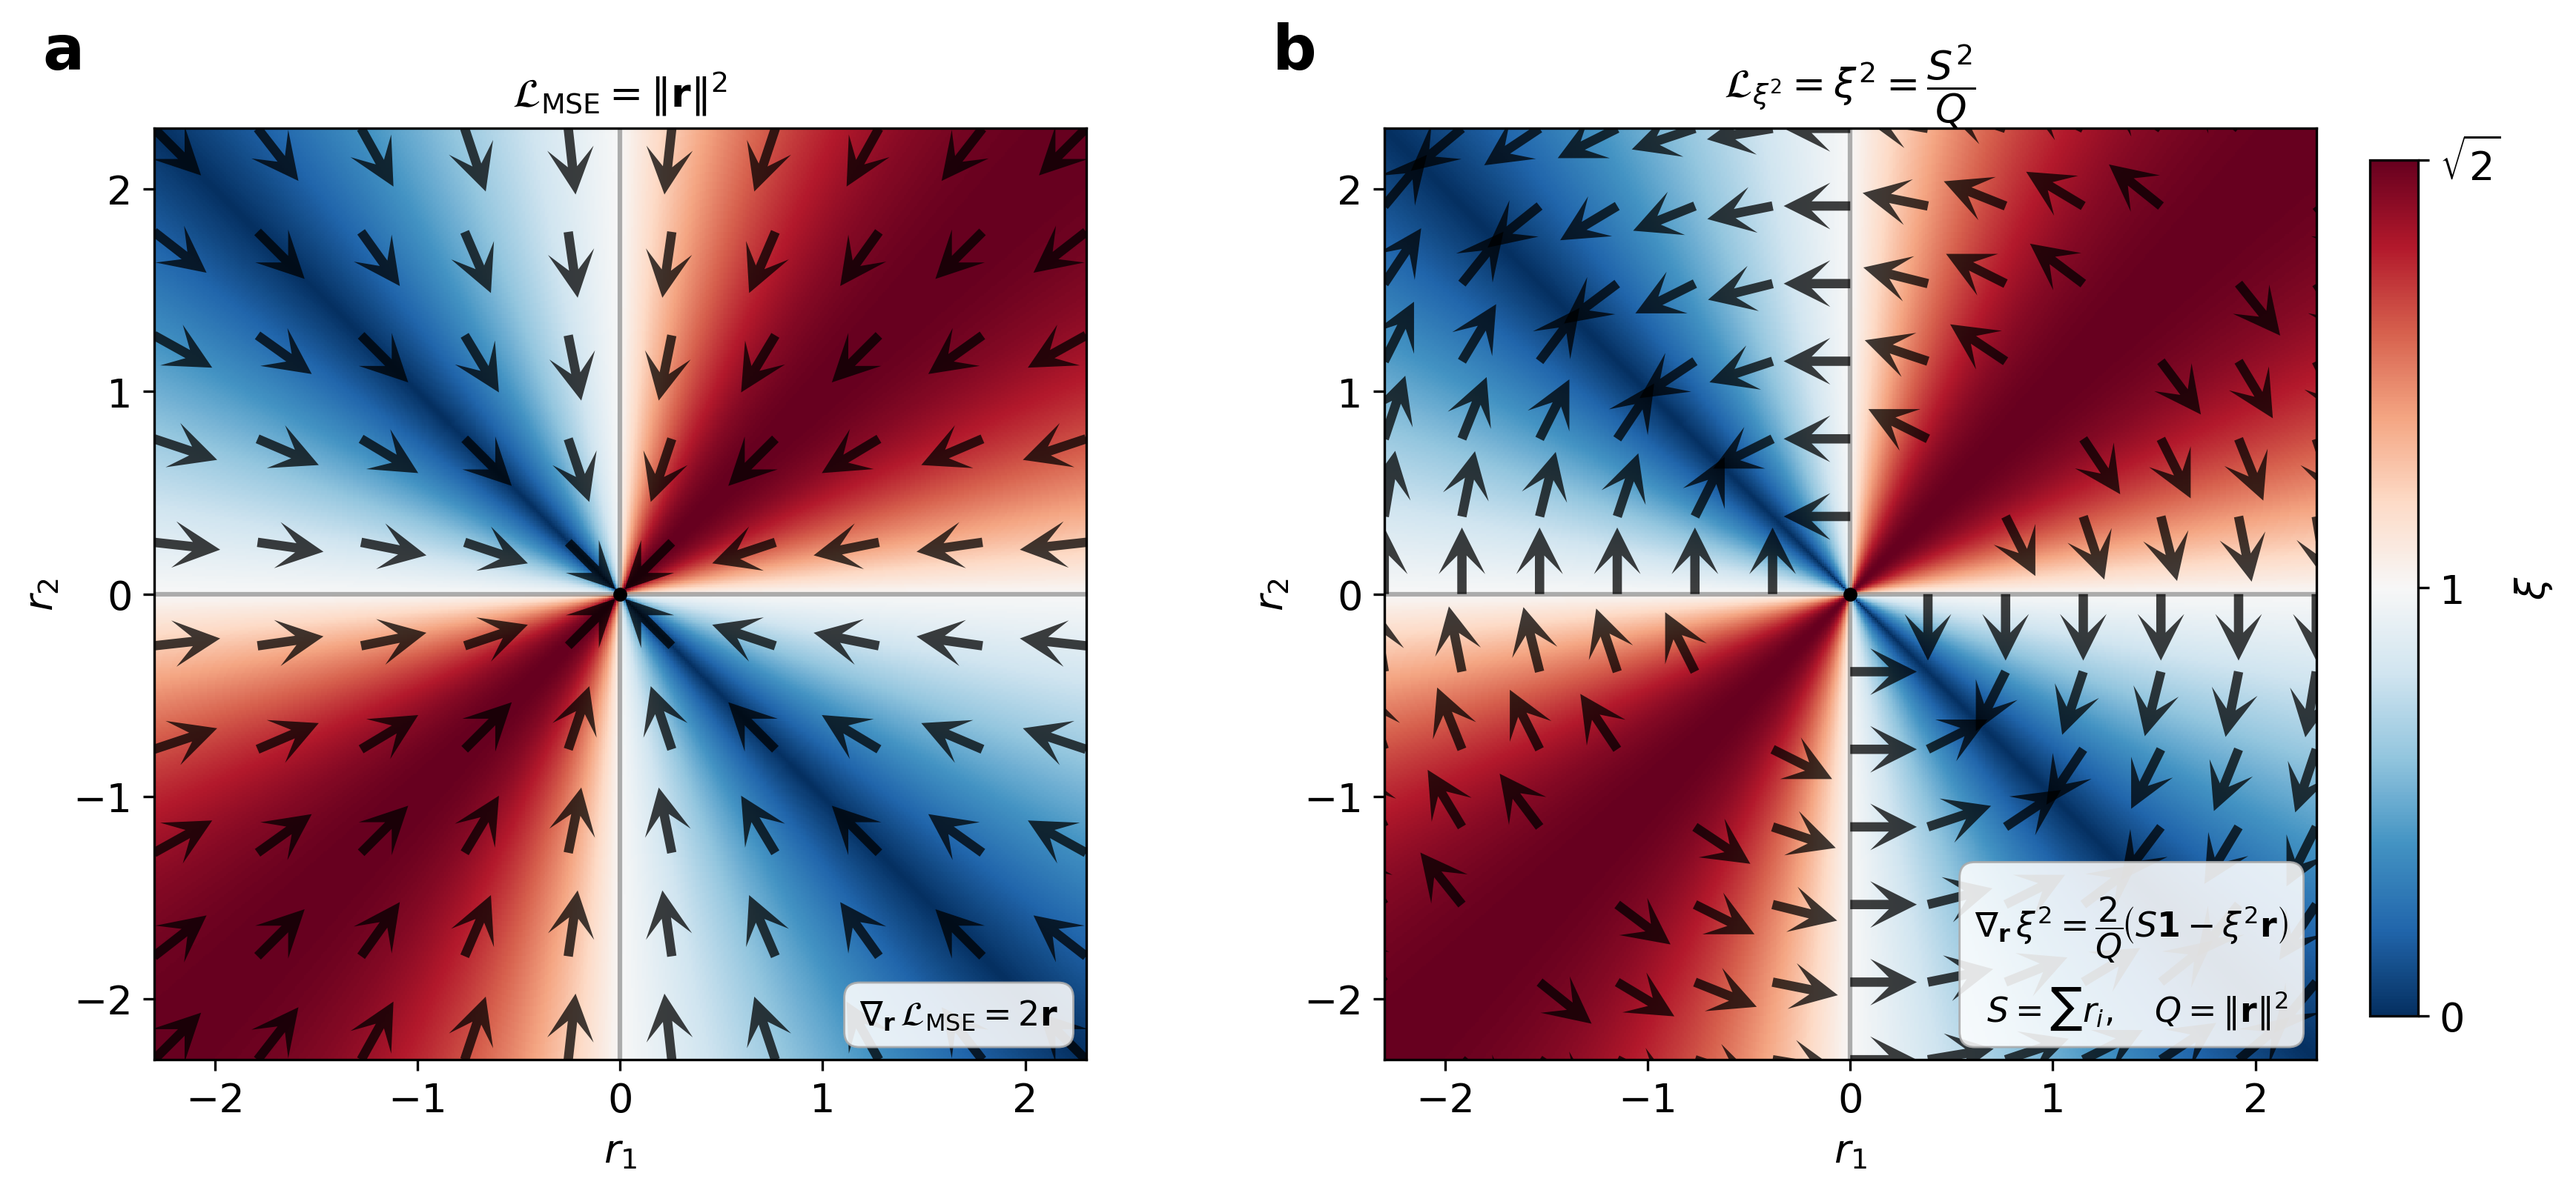
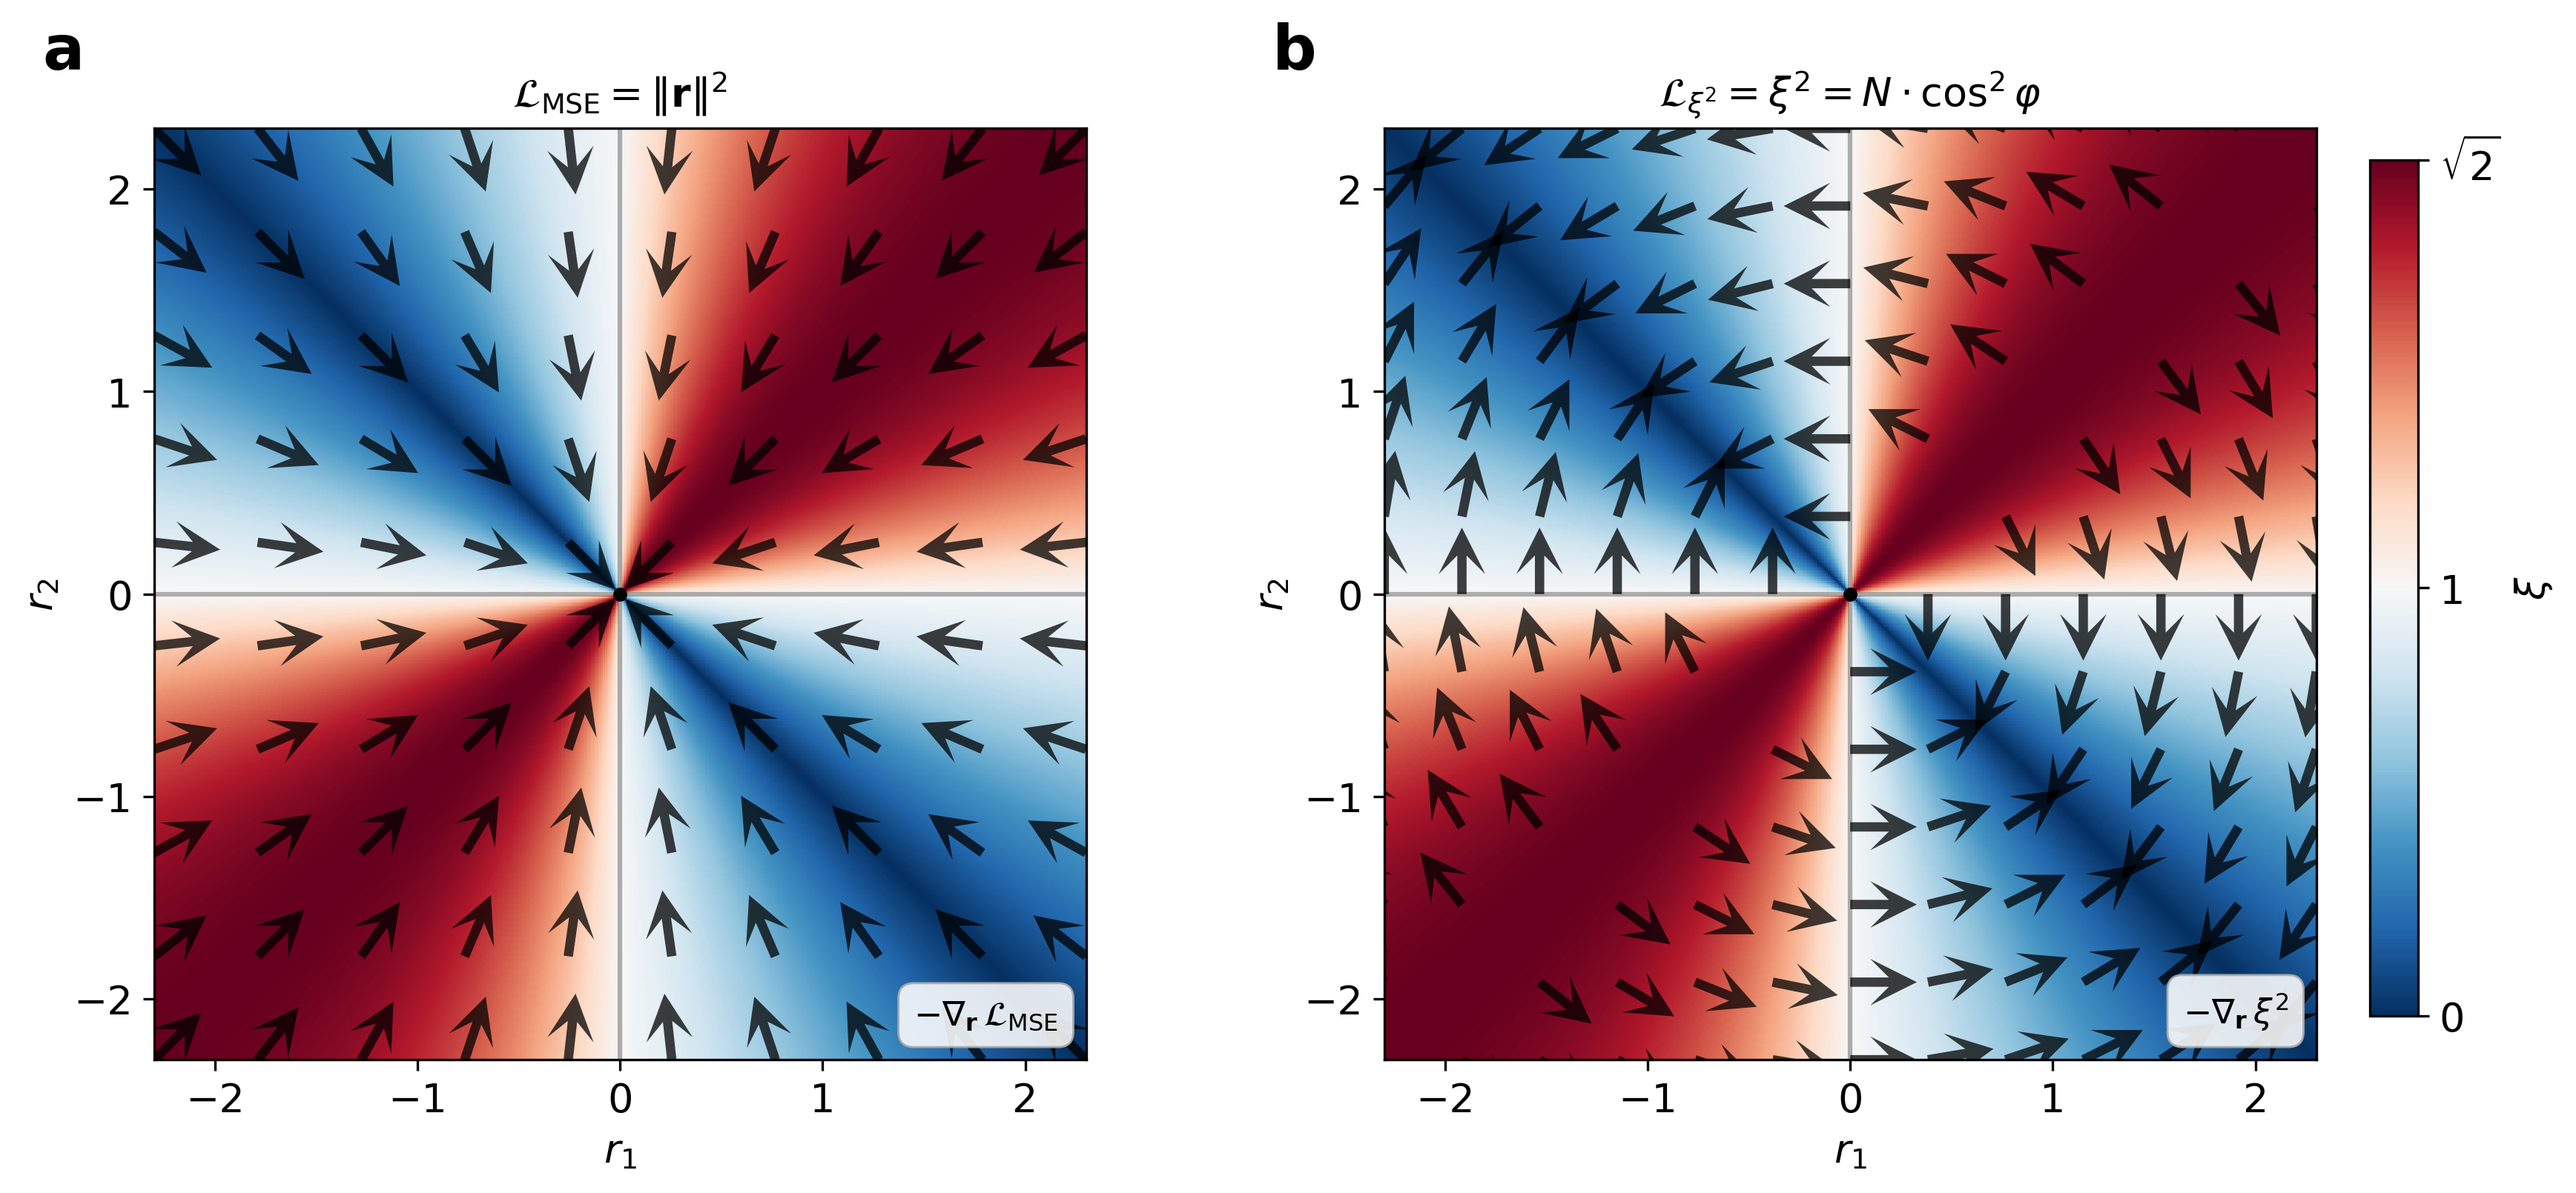
phi update, figure update

Changed region(s): [[0.7461, 0.7143, 0.9016, 0.9006], [0.6528, 0.0311, 0.8083, 0.0932], [0.3109, 0.8075, 0.4041, 0.9006]]

diff --git a/scripts/figures/fig1_geometry.py b/scripts/figures/fig1_geometry.py
@@ -123,7 +123,7 @@ r_ann = 0.25
 ax1.plot(r_ann * np.cos(t_ann), r_ann * np.sin(t_ann), 'k-', lw=1.5, zorder=6)
 ax1.text(r_ann * 0.7 * np.cos(np.pi / 8),
          r_ann * 0.6 * np.sin(np.pi / 8),
-         r'$\theta$', fontsize=_FS, va='center', ha='center')
+         r'$\varphi$', fontsize=_FS, va='center', ha='center')
 
 ax1.axvline(0.00, ymin=0.00, ymax=1.00, color = 'k', alpha = 0.3)
 ax1.axhline(0.00, xmin=0.00, xmax=1.00, color = 'k', alpha = 0.3)
@@ -142,9 +142,9 @@ ax1.text(-0.22, 1.18, 'a', transform=ax1.transAxes,
 # Coordinate system: x = ξ = √N cosθ,  y = √N sinθ
 # where θ = ∠(1̂, r̂).  The arc sits at radius R = √N.
 # ══════════════════════════════════════════════════════════════════════════════
-theta_q = np.linspace(0, np.pi / 2, 600)
-x_arc   = R * np.cos(theta_q)   # ξ
-y_arc   = R * np.sin(theta_q)
+phi_q = np.linspace(0, np.pi / 2, 600)
+x_arc   = R * np.cos(phi_q)   # ξ
+y_arc   = R * np.sin(phi_q)
 
 # Coloured arc via LineCollection (colour = ξ = x-coordinate)
 pts  = np.array([x_arc, y_arc]).T.reshape(-1, 1, 2)
@@ -162,7 +162,7 @@ r_ann = 0.25
 ax2.plot(r_ann * np.cos(t_ann), r_ann * np.sin(t_ann), 'k-', lw=1.5, zorder=6)
 ax2.text(r_ann * 0.7 * np.cos(np.pi / 8),
          r_ann * 0.6 * np.sin(np.pi / 8),
-         r'$\theta$', fontsize=_FS, va='center', ha='center')
+         r'$\varphi$', fontsize=_FS, va='center', ha='center')
 
 # Example vectors at rightful places: θ=0° (ξ=√2), θ=45° (ξ=1), θ=90° (ξ=0)
 examples_circ = [
@@ -184,8 +184,8 @@ ax2.set_xticks(tick_v); ax2.set_xticklabels(tick_l)
 ax2.set_yticks(tick_v); ax2.set_yticklabels(tick_l)
 ax2.set_xlim(-0.05 * R, R * 1.1)
 ax2.set_ylim(-0.05 * R, R * 1.1)
-ax2.set_xlabel(r'$\xi = \sqrt{N}\cos\theta$', fontsize=_FS, labelpad=5)
-ax2.set_ylabel(r'$\eta = \sqrt{N}\sin\theta$', fontsize=_FS, labelpad=5)
+ax2.set_xlabel(r'$\xi = \sqrt{N}\cos\varphi$', fontsize=_FS, labelpad=5)
+ax2.set_ylabel(r'$\eta = \sqrt{N}\sin\varphi$', fontsize=_FS, labelpad=5)
 ax2.set_aspect('equal')
 
 # Panel label: outside, top-left

diff --git a/scripts/interference_score.py b/scripts/interference_score.py
@@ -352,12 +352,12 @@ def main():
                 continue
 
             sqrt_N    = math.sqrt(N)
-            theta_err = math.acos(min(xi_err / sqrt_N, 1.0))
-            eta_err = sqrt_N * math.sin(theta_err)
+            phi_err = math.acos(min(xi_err / sqrt_N, 1.0))
+            eta_err = sqrt_N * math.sin(phi_err)
 
             xi_ml    = result_ml[0]
-            theta_ml = math.acos(min(xi_ml / sqrt_N, 1.0))
-            eta_ml = sqrt_N * math.sin(theta_ml)
+            phi_ml = math.acos(min(xi_ml / sqrt_N, 1.0))
+            eta_ml = sqrt_N * math.sin(phi_ml)
 
             n_ok += 1
             scores.append(xi_err)
@@ -370,10 +370,10 @@ def main():
                 "Hd_err":    round(hd_err, 6),
                 "xi_err":    round(xi_err, 6),
                 "eta_err":   round(eta_err, 6),
-                "theta_err": round(math.degrees(theta_err), 4),
+                "phi_err": round(math.degrees(phi_err), 4),
                 "xi_ml":     round(xi_ml, 6),
                 "eta_ml":    round(eta_ml, 6),
-                "theta_ml":  round(math.degrees(theta_ml), 4),
+                "phi_ml":  round(math.degrees(phi_ml), 4),
                 "N":         N,
                 "sqrt_N":    round(sqrt_N, 4),
             })
@@ -402,8 +402,8 @@ def main():
     os.makedirs(out_dir, exist_ok=True)
     out_csv = os.path.join(out_dir, f"interference_scores_{year}.csv")
     fieldnames = ["model", "compound", "stability", "Hf_DFT", "Hd_DFT", "Hd_err",
-                  "xi_err",   "eta_err", "theta_err",
-                  "xi_ml",    "eta_ml",  "theta_ml",
+                  "xi_err",   "eta_err", "phi_err",
+                  "xi_ml",    "eta_ml",  "phi_ml",
                   "N", "sqrt_N"]
     with open(out_csv, "w", newline="") as f:
         w = csv.DictWriter(f, fieldnames=fieldnames)
@@ -465,4 +465,4 @@ def main():
 
 
 if __name__ == "__main__":
-    main()
+    main

diff --git a/scripts/figures/fig3_model_comparison.py b/scripts/figures/fig3_model_comparison.py
@@ -85,7 +85,7 @@ def plot(by_model: dict, models: list, out_path: str):
 
     norm      = TwoSlopeNorm(vmin=0, vcenter=1.0, vmax=math.sqrt(10))
     cmap_obj  = plt.get_cmap(_CMAP)
-    arc_theta = np.linspace(0, np.pi / 2, 300)
+    arc_phi = np.linspace(0, np.pi / 2, 300)
     tick_vals = [t for t in [0, 1, 2, 3] if t <= lim]
 
     fig, axes = plt.subplots(n_rows, n_cols,
@@ -105,7 +105,7 @@ def plot(by_model: dict, models: list, out_path: str):
         # Concentric arcs
         for N_val in sorted(set(Ns)):
             R = math.sqrt(N_val)
-            ax.plot(R * np.cos(arc_theta), R * np.sin(arc_theta),
+            ax.plot(R * np.cos(arc_phi), R * np.sin(arc_phi),
                     color="lightgray", lw=1.0, zorder=0)
             ax.text(R * np.cos(0.24) + 0.01 - R * 0.01,
                     R * np.sin(0.24),
@@ -150,8 +150,8 @@ def plot(by_model: dict, models: list, out_path: str):
         ax.set_ylim(0, lim)
         ax.set_xticks(tick_vals)
         ax.set_yticks(tick_vals)
-        ax.set_xlabel(r"$\xi = \sqrt{N}\cos\theta$", fontsize=_FS)
-        ax.set_ylabel(r"$\eta = \sqrt{N}\sin\theta$", fontsize=_FS)
+        ax.set_xlabel(r"$\xi = \sqrt{N}\cos\varphi$", fontsize=_FS)
+        ax.set_ylabel(r"$\eta = \sqrt{N}\sin\varphi$", fontsize=_FS)
         ax.set_aspect("equal")
         ax.tick_params(top=False, right=False)
         ax.text(1.0, 1.1, model_name, transform=ax.transAxes,

diff --git a/scripts/figures/fig2_circles.py b/scripts/figures/fig2_circles.py
@@ -67,7 +67,7 @@ for key, fn in GEN.items():
 
 
 # -- Panel drawing ------------------------------------------------------------
-arc_theta = np.linspace(0, np.pi / 2, 300)
+arc_phi = np.linspace(0, np.pi / 2, 300)
 
 def draw_panel(ax, key):
     all_xi   = np.concatenate([data[key][N] for N in N_VALS])
@@ -78,7 +78,7 @@ def draw_panel(ax, key):
     # Concentric arcs + N labels
     for N in N_VALS:
         R = np.sqrt(N)
-        ax.plot(R * np.cos(arc_theta), R * np.sin(arc_theta),
+        ax.plot(R * np.cos(arc_phi), R * np.sin(arc_phi),
                 color='lightgray', lw=1.0, zorder=0)
         ax.text(R * np.cos(0.24) + 0.01 - R * 0.003,
                 R * np.sin(0.24),
@@ -136,8 +136,8 @@ def draw_panel(ax, key):
     ax.set_ylim(0, CIRC_TOP)
     ax.set_xticks(TICK_VALS)
     ax.set_yticks(TICK_VALS)
-    ax.set_xlabel(r'$\xi = \sqrt{N}\cos\theta$', fontsize=_FS)
-    ax.set_ylabel(r'$\eta = \sqrt{N}\sin\theta$', fontsize=_FS)
+    ax.set_xlabel(r'$\xi = \sqrt{N}\cos\varphi$', fontsize=_FS)
+    ax.set_ylabel(r'$\eta = \sqrt{N}\sin\varphi$', fontsize=_FS)
     ax.set_aspect('equal')
 
 # -- Figure -------------------------------------------------------------------

diff --git a/scripts/figures/fig6_lambda_sweep.py b/scripts/figures/fig6_lambda_sweep.py
@@ -33,16 +33,16 @@ plt.rcParams.update({'font.family': 'sans-serif', 'font.size': _FS,
 
 # Series definitions
 SERIES = {
-    "iiLoss":        dict(prefix="iiLoss_",        exclude="pcgrad|save",
+    "iiLoss":        dict(prefix="iiLoss_",        exclude="pcgrad|save|finetune",
                           color="#7B9FFF", marker="o", ls="-",  lw=1.8),
-    "HdLoss":        dict(prefix="HdLoss_",         exclude="pcgrad|save",
+    "HdLoss":        dict(prefix="HdLoss_",         exclude="pcgrad|save|finetune",
                           color="#FF85C8", marker="s", ls="-",  lw=1.8),
     "iiLoss+PCGrad": dict(prefix="iiLoss_pcgrad_", exclude=None,
                           color="#4361EE", marker="^", ls="--", lw=1.4,
-                          anchor="iiLoss_0.0"),
+                          anchor="iiLoss_finetune_0.0"),
     "HdLoss+PCGrad": dict(prefix="HdLoss_pcgrad_", exclude=None,
                           color="#E040AB", marker="D", ls="--", lw=1.4,
-                          anchor="HdLoss_0.0"),
+                          anchor="HdLoss_finetune_0.0"),
 }
 
 EF_MAE_MAX = 0.32

diff --git a/scripts/figures/fig5_gradient_fields.py b/scripts/figures/fig5_gradient_fields.py
@@ -77,18 +77,15 @@ fig, axes = plt.subplots(1, 2, figsize=(12, 5.5))
 fig.subplots_adjust(left=0.07, right=0.88, wspace=0.32)
 
 ext = EXTENT * 0.93   # reference-line extent
-theta_c = np.linspace(0, 2 * np.pi, 400)
+phi_c = np.linspace(0, 2 * np.pi, 400)
 
 panels = [
     (axes[0], U_mse,  V_mse,  xs_a, ys_a, 'a',
      r'$\mathcal{L}_\mathrm{MSE} = \|\mathbf{r}\|^2$',
-     r'$\nabla_\mathbf{r}\,\mathcal{L}_\mathrm{MSE} = 2\mathbf{r}$'),
+     r'$-\nabla_\mathbf{r}\,\mathcal{L}_\mathrm{MSE}$'),
     (axes[1], U_xi2,  V_xi2,  xs_b, ys_b, 'b',
-     r'$\mathcal{L}_{\xi^2} = \xi^2 = \dfrac{S^2}{Q}$',
-     (r'$\nabla_\mathbf{r}\,\xi^2 = \dfrac{2}{Q}'
-      r'\!\left(S\mathbf{1} - \xi^2\mathbf{r}\right)$'
-      '\n'
-      r'$S = \sum r_i,\quad Q = \|\mathbf{r}\|^2$')),
+     r'$\mathcal{L}_{\xi^2} = \xi^2 = N\cdot \cos^2 \varphi$',
+     r'$-\nabla_\mathbf{r}\,\xi^2$'),
 ]
 
 for ax, U, V, xs, ys, panel_lbl, title_str, eq_str in panels:

diff --git a/README.md b/README.md
@@ -15,7 +15,7 @@ It extends the benchmark framework of [Bartel et al. (2020)](https://www.nature.
 ```
 ├── data/                        # Materials Project hull data
 │   ├── 2020/                    # Bartel et al. 2020 MP snapshot
-│   └── 2026/                    # Current MP snapshot
+│   └── 2026/                    # MP snapshot from 2026/05/27
 │                                # 2026 ML predictions: https://doi.org/10.5281/zenodo.20468539
 ├── results/                     # Pre-computed interference scores
 │   ├── 2020/                    # interference_scores_2020.csv, interference_summary_2020.csv
